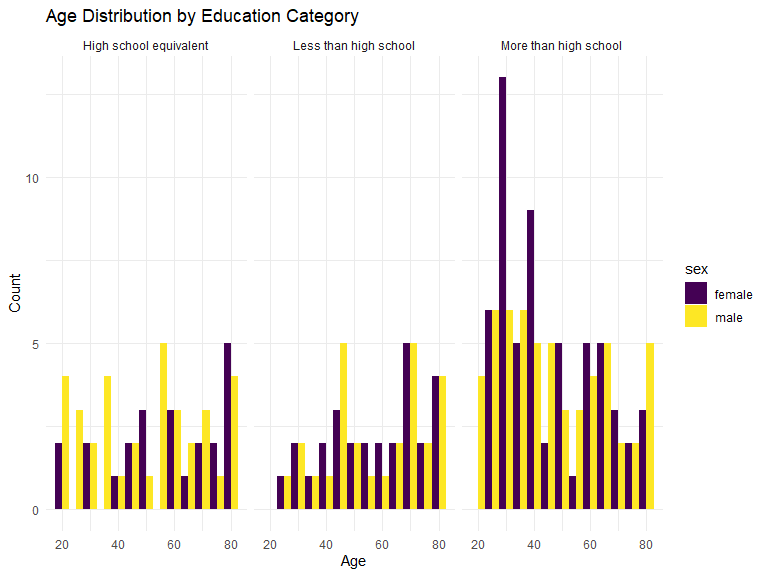
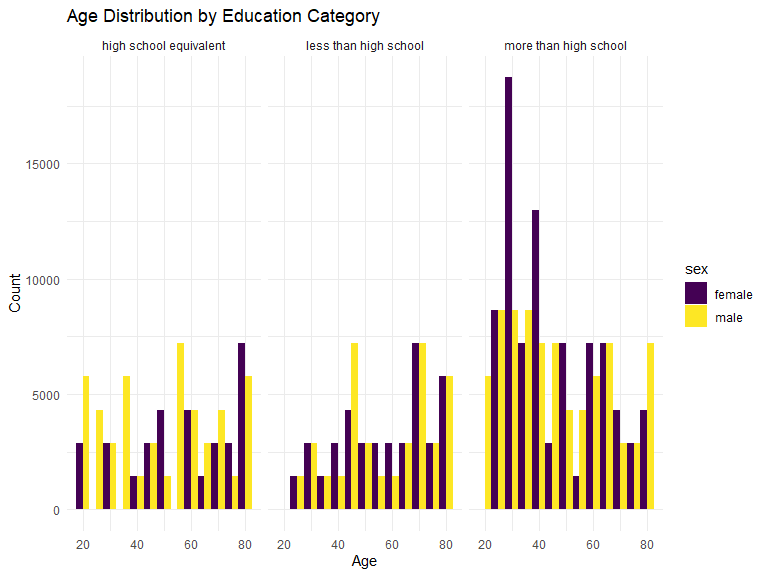
Revise Question 3: add "pivot_longer" to clean nhanes_accel dataset

diff --git a/p8105_hw3_yw3995.md b/p8105_hw3_yw3995.md
@@ -340,24 +340,33 @@ nhanes_covar =
   mutate(
     sex = ifelse(sex == 1, "male", "female")) |> 
   mutate(
-    education = ifelse(education == 1, "Less than high school", 
-                       ifelse(education == 2, "High school equivalent", 
-                              "More than high school"))
+    education = recode(education,
+                       `1` = "less than high school",
+                       `2` = "high school equivalent",
+                       `3` = "more than high school")
   ) |> 
-  filter(age >= "21")
+  arrange(education) |> 
+  filter(age >= "21") |> 
+  drop_na()
 ```
 
 ``` r
 nhanes_accel = 
   read.csv("./data/nhanes_accel.csv") |> 
-  janitor::clean_names()
+  janitor::clean_names() |> 
+  pivot_longer(
+    min1:min1440,
+    names_to = "min",
+    values_to = "activity",
+    names_prefix = "min"
+  ) |> 
+  mutate(min = as.numeric(min))
 ```
 
 ## Merge and organize data sets
 
 ``` r
-merge_nhanes = full_join(nhanes_covar, nhanes_accel, by = c("seqn")) |> 
-  drop_na()
+merge_nhanes = left_join(nhanes_covar, nhanes_accel, by = c("seqn"))
 ```
 
 ### Questions
@@ -374,7 +383,7 @@ merge_nhanes = full_join(nhanes_covar, nhanes_accel, by = c("seqn")) |>
     that in female.
 
 ``` r
-sex_nhanes = merge_nhanes |> 
+sex_nhanes = nhanes_covar |> 
   group_by(sex, education) |> 
   summarise(quantity = n()) |> 
   pivot_wider(
@@ -388,9 +397,9 @@ sex_nhanes
 
 | education              | female | male |
 |:-----------------------|-------:|-----:|
-| High school equivalent |     23 |   35 |
-| Less than high school  |     28 |   27 |
-| More than high school  |     59 |   56 |
+| high school equivalent |     23 |   35 |
+| less than high school  |     28 |   27 |
+| more than high school  |     59 |   56 |
 
 - create a visualization of the age distributions for men and women in
   each education category.
@@ -410,10 +419,11 @@ ggplot(age_nhanes, aes(x = age, fill = sex)) +
 <img src="p8105_hw3_yw3995_files/figure-gfm/unnamed-chunk-19-1.png" width="90%" />
 
 - This is a bar chat about the age distributions for men and women in
-  each education category, which includes **228** participates. We can
-  find that **more participates** in “More than high school” education
-  category for men and women, and between the ages of 20 and 40, a
-  greater proportion of women than men are **“More than high school”**.
+  each education category, which includes **328320** participates. We
+  can find that **more participates** in “More than high school”
+  education category for men and women, and between the ages of 20 and
+  40, a greater proportion of women than men are **“More than high
+  school”**.
 
 - Traditional analyses of accelerometer data focus on the total activity
   over the day. Using your tidied dataset, aggregate across minutes to
@@ -442,7 +452,6 @@ ggplot(age_nhanes, aes(x = age, fill = sex)) +
 
 ``` r
 activity_nhanes = merge_nhanes |> 
-  gather(key = "minute", value = "activity", starts_with("min")) |> 
   group_by(seqn, sex, education, age) |> 
   summarize(total_activity = sum(activity))
 ```
@@ -491,9 +500,7 @@ ggplot(activity_nhanes, aes(x = age, y = total_activity, color = sex)) +
 
 ``` r
 activity24_nhanes = merge_nhanes |> 
-  gather(key = "minute", value = "activity", starts_with("min")) |> 
-  mutate(minute = as.numeric(gsub("min", "", minute))) |> 
-  group_by(education, sex, minute) |> 
+  group_by(education, sex, min) |> 
   summarize(mean_activity = mean(activity))
 ```
 
@@ -501,7 +508,7 @@ activity24_nhanes = merge_nhanes |>
     ## the `.groups` argument.
 
 ``` r
-ggplot(activity24_nhanes, aes(x = minute, y = mean_activity, color = sex)) +
+ggplot(activity24_nhanes, aes(x = min, y = mean_activity, color = sex)) +
   geom_point(alpha = .2) +
   geom_smooth(se = FALSE) +
   facet_wrap(~ education, ncol = 3) +
